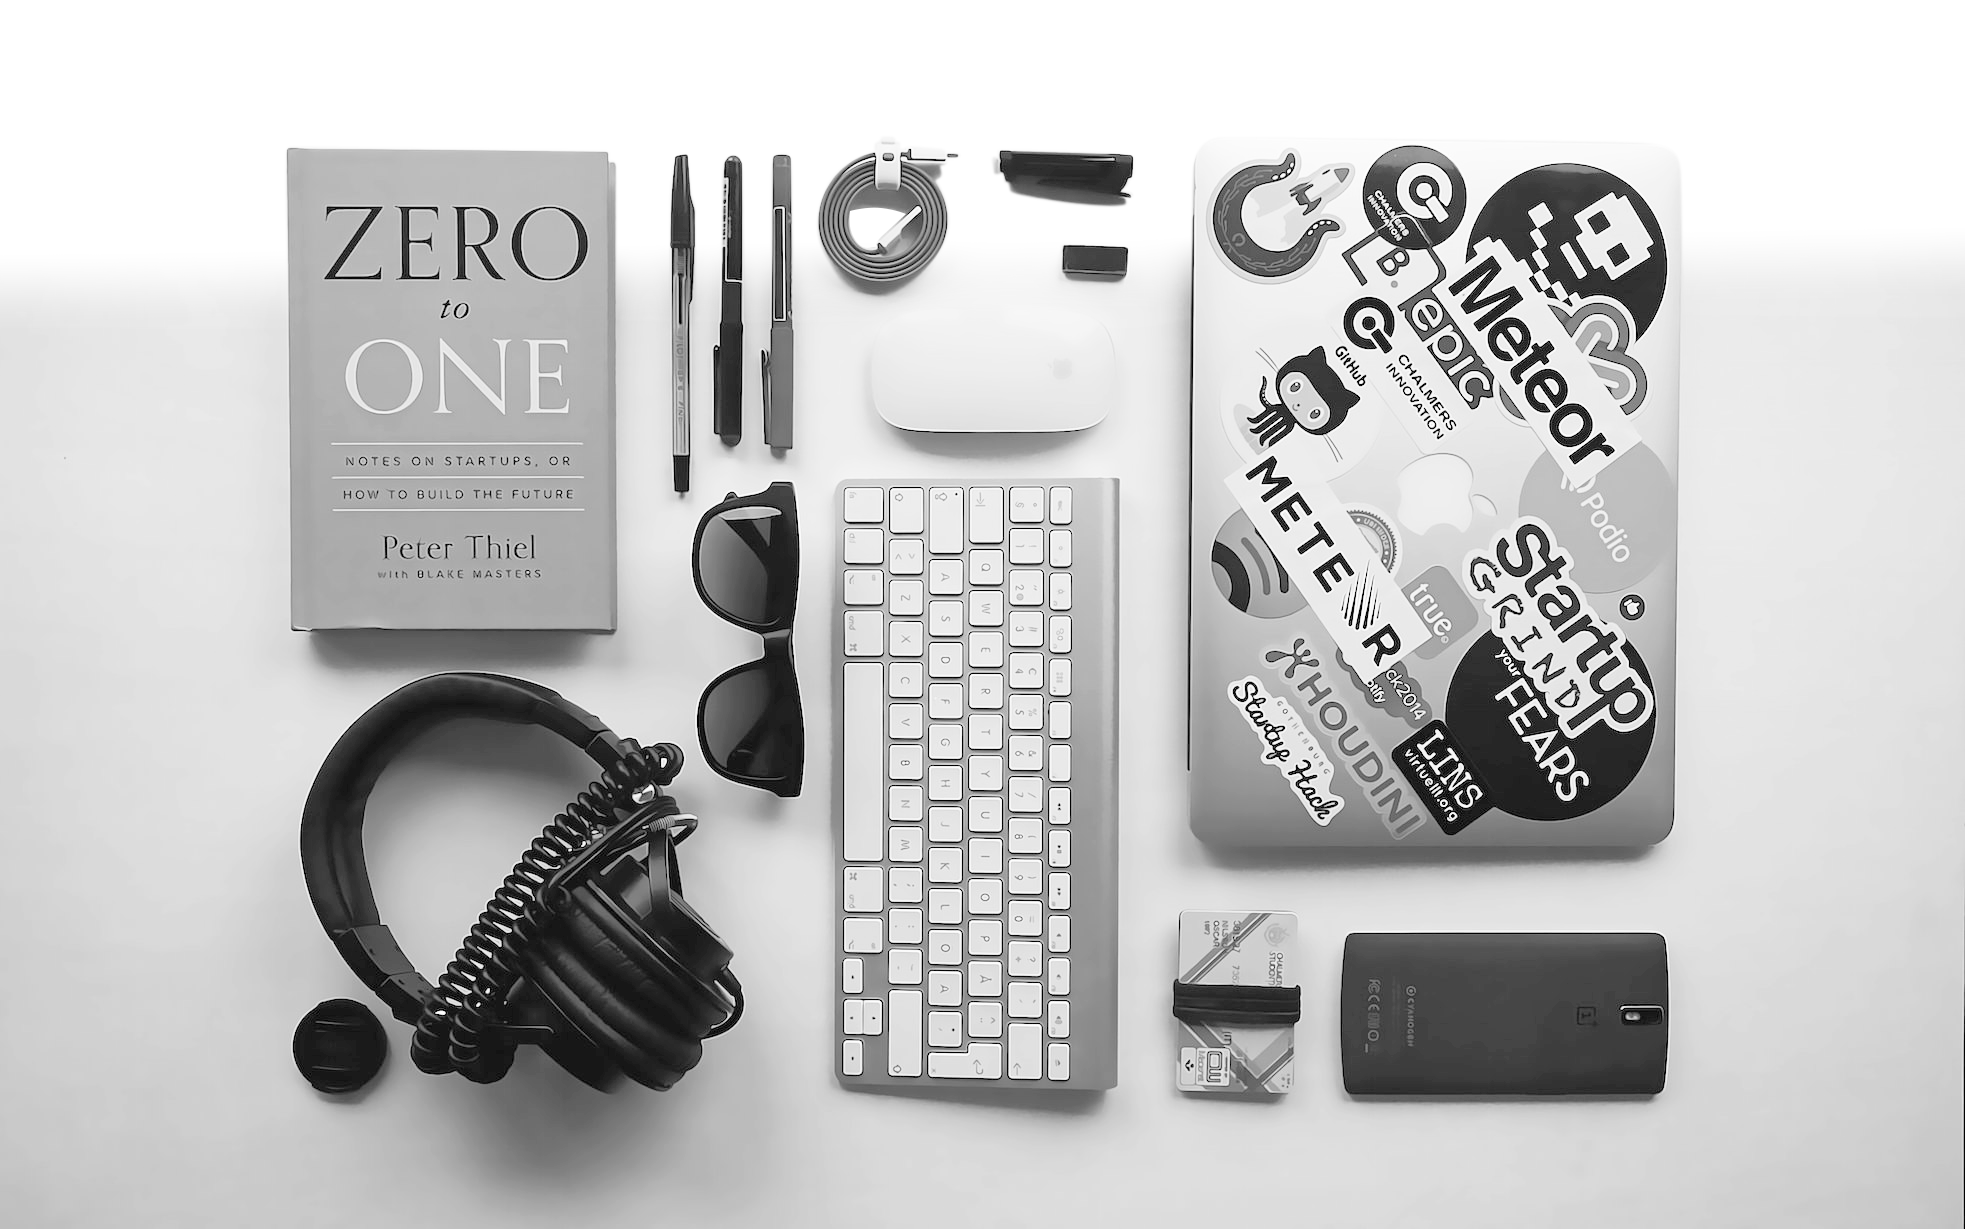
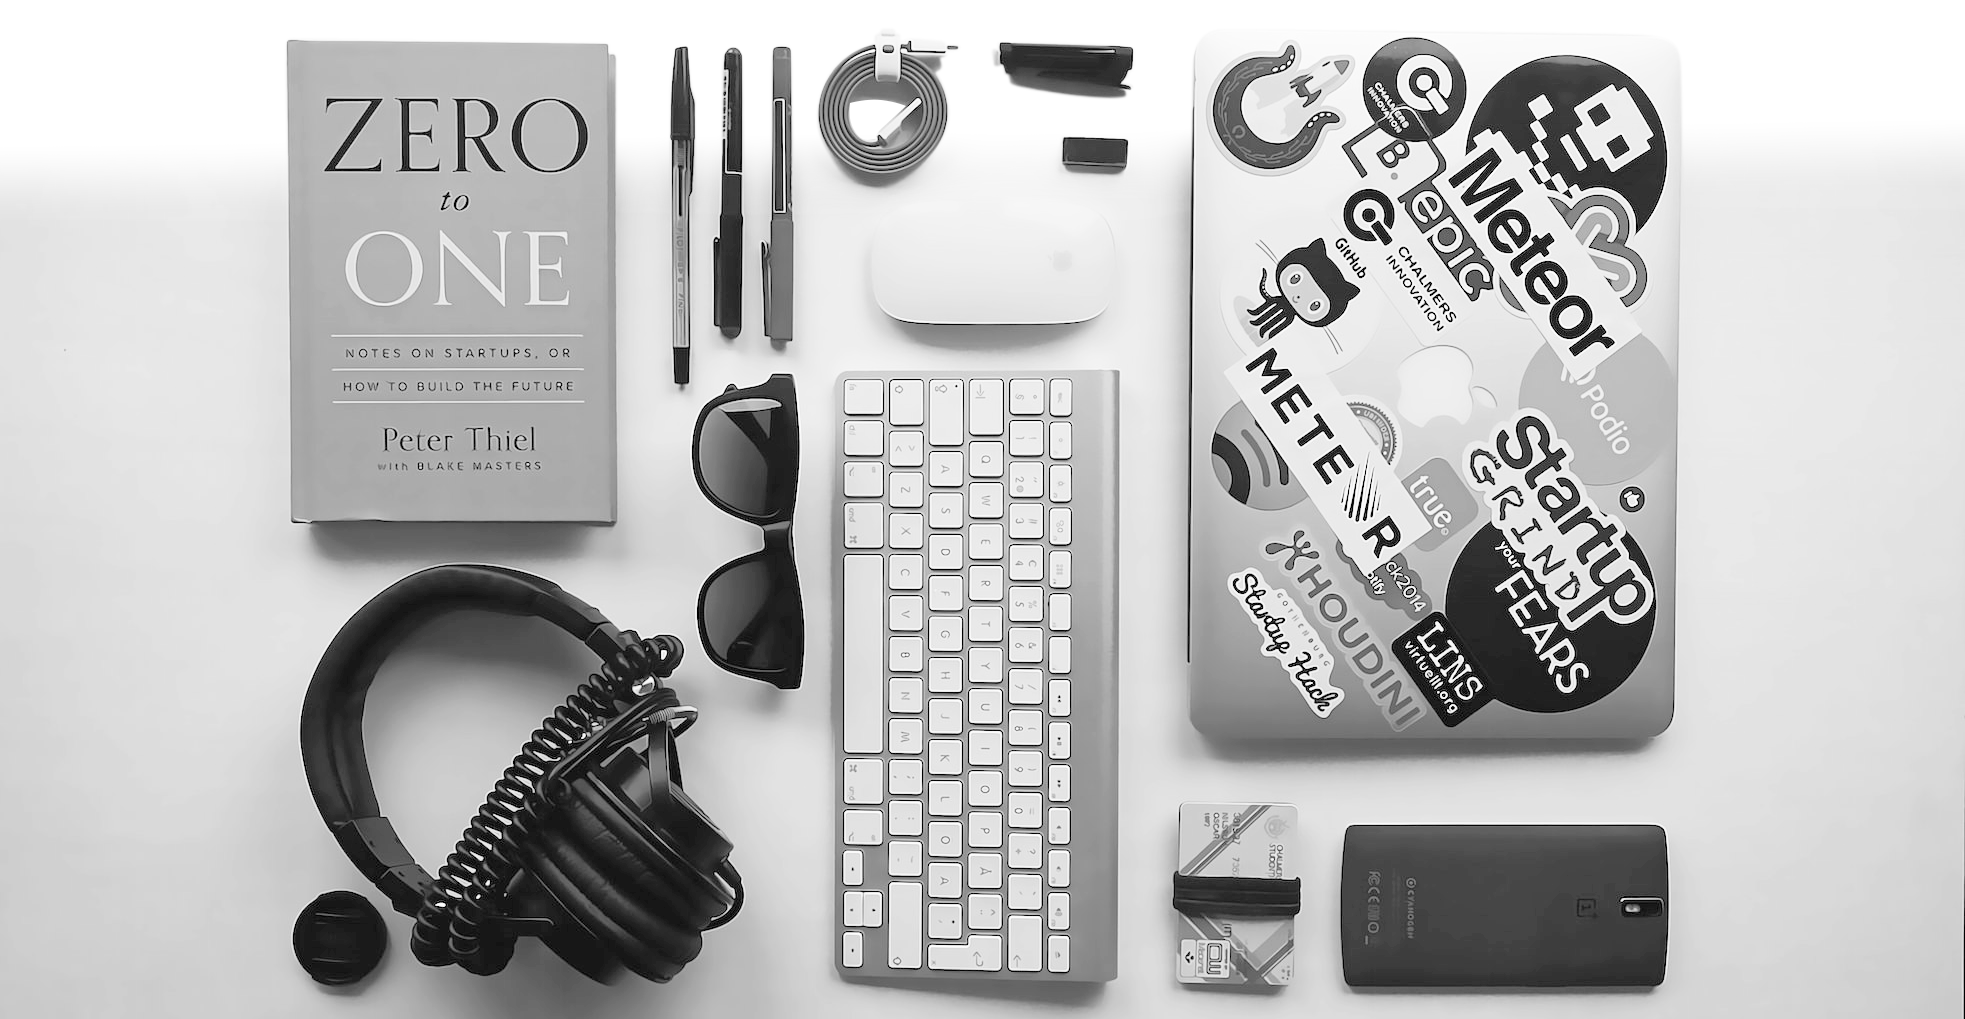
changed background and some small fix

Changed region(s): [[0.1242, 0.0304, 0.8692, 1.0], [0.9934, 0.8518, 1.0, 0.9127], [0.0, 0.1825, 0.031, 0.213]]

diff --git a/style/style.css b/style/style.css
@@ -17,7 +17,7 @@ button {
 
 footer {
 	height:50vw;
-	background: url('../img/dreamy_landscape.png') no-repeat;
+	background: url('../img/tabletop2.png') no-repeat;
 	background-size: 100% auto;
 	background-color: rgb(0, 0, 0, .5);
 	bottom: 0px;
@@ -138,5 +138,4 @@ a div {
 	background-size: 109%;
 	background-position: -20px -20px;
 	margin: 70px 10vw 0px 70vw;
-	/*position: fixed;*/
 }
